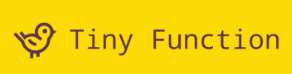
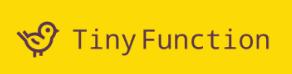
updated changes for 2025-aug

Changed region(s): [[0.0308, 0.2703, 0.9555, 0.8108]]

diff --git a/grammer.html b/grammer.html
@@ -17,17 +17,34 @@
 </script>   
     
     <link rel="shortcut icon" href="favicon.ico" type="image/x-icon" />
-    <!--link href='http://fonts.googleapis.com/css?family=Lato&subset=latin,latin-ext' rel='stylesheet' type='text/css'-->
-    
+    <!--link href="https://unpkg.com/tailwindcss@^1.0/dist/tailwind.min.css" rel="stylesheet"/-->
+    <!--link href="https://unpkg.com/tailwindcss@^2/dist/tailwind.min.css" rel="stylesheet"--> 
+    <script src="https://cdn.tailwindcss.com"></script>
+    <meta name="viewport" content="width=device-width, initial-scale=1.0">
+    <link rel="stylesheet" href="https://use.fontawesome.com/releases/v5.8.1/css/all.css" integrity="sha384-50oBUHEmvpQ+1lW4y57PTFmhCaXp0ML5d60M1M7uH2+nqUivzIebhndOJK28anvf" crossorigin="anonymous">    
+    <!--link href="styles/output.css" type="text/css" rel="stylesheet" /-->
+      
+
     <link rel="preconnect" href="https://fonts.googleapis.com">
     <link rel="preconnect" href="https://fonts.gstatic.com" crossorigin>
-    <link href="https://fonts.googleapis.com/css2?family=Lato:wght@100&display=swap" rel="stylesheet">
-    
+      
+    <link href='http://fonts.googleapis.com/css?family=Lato&subset=latin,latin-ext' rel='stylesheet' type='text/css'>      
+    <link href="https://fonts.googleapis.com/css2?family=Noto+Sans&display=swap" rel="stylesheet">      
+    <link href="https://fonts.googleapis.com/css2?family=Nunito&display=swap" rel="stylesheet">
+    <link href="https://fonts.googleapis.com/css2?family=Nata+Sans:wght@100..900&display=swap" rel="stylesheet">
+    <link href="https://fonts.googleapis.com/css2?family=Delius&display=swap" rel="stylesheet">
+      
+    <link href="https://fonts.googleapis.com/css2?family=Inter&display=swap" rel="stylesheet">
+      
       <style>
         body {
-            /*font-family:'sofia-pro,Roboto,Helvetica,Arial,sans-serif';*/
-          font-family: 'Lato', sans-serif;
         }
+        .main-sec {
+            font-family: 'Inter', sans-serif;
+      }
+        .main-sec2 {
+            font-family: 'Nunito', sans-serif;
+      }
       </style>
       
 <script>
@@ -35,36 +52,35 @@
 </script>
   <meta charset="UTF-8">
   <title>Kishore.pro/grammer</title>
-  <!--link href="https://unpkg.com/tailwindcss@^1.0/dist/tailwind.min.css" rel="stylesheet"/-->
-  <link href="https://unpkg.com/tailwindcss@^2/dist/tailwind.min.css" rel="stylesheet">      
-    <meta name="viewport" content="width=device-width, initial-scale=1.0">
-<link rel="stylesheet" href="https://use.fontawesome.com/releases/v5.8.1/css/all.css" integrity="sha384-50oBUHEmvpQ+1lW4y57PTFmhCaXp0ML5d60M1M7uH2+nqUivzIebhndOJK28anvf" crossorigin="anonymous">    
-  <!--link href="styles/output.css" type="text/css" rel="stylesheet" /-->
 </head>
     
 <body class=" h-screen" >
     
-<div class="flex flex-col md:h-screen justify-center p-4 bgdiv bg-gray-200">
-  <div class="  max-w-sm md:max-w-3xl  bg-white shadow-md m-auto rounded-lg p-12  space-y-4">
-    <img class="h-16 w-16 rounded-full mx-auto" src="https://pbs.twimg.com/profile_images/1313453251509932032/eRvqp-t0_400x400.jpg">
-    <div class="text-center text-black space-y-4 antialiased">
+      
+<div class="flex flex-col md:h-screen justify-center bg-gray-700 overflow-hidden">
+  <div class="max-w-sm md:max-w-3xl bg-black shadow-md m-auto rounded-lg p-12 space-y-4 border border-gray-800">
+
+      
+    <img class="h-16 w-16 rounded-full mx-auto brightness-85  " src="images/profile-twitter2.jpg">
+    <div class="text-center text-black space-y-4 pt-4 antialiased">
       <!--div><h2 class="text-2xl underline">Kishore</h2> </div-->
       <!--div>Software Architect</div-->
         <!--div><h1 class="text-xl ">Software Architect</h1> </div-->
         
-        <div class="prose  text-gray-900 text-lg ">
-            <p class=" lead ">Hi! I'm Kishore, Software Architect with expertise in Web technologies, Cloud(K8's), Desktop and Embedded Systems. 
+        <div class="prose  ">
+            <p class=" lead main-sec  text-white ">Hi! I'm Kishore, Software Architect with expertise in Web technologies, Cloud(K8's), Desktop and Embedded Systems. 
               My skill set includes Java, C#, ReactJS, NodeJS, Python, D, Go, Zig etc. And cloud platforms like GCP, AWS, and Azure. 
               I have over 23 years of experience in software development and 2 years in nanotechnology.
             </p> 
-            <p class=" p-3">
+            <p class=" p-8 main-sec2 text-white">
                 I worked for 
+                <a target="_blank" href="https://prescinto.ai">IBM-Prescinto</a>,
                 <a target="_blank" href="https://tektronix.com">Tektronix</a>, 
                 <a target="_blank" href="https://tomtom.com">TomTom</a>,
-                <a target="_blank" href="https://lnf.umich.edu">Lurie Nano Fab</a> at
+                <a target="_blank" href="https://lnf.umich.edu">Lurie Nano Fab</a>,
                 <a target="_blank" href="https://umich.edu">University of Michigan</a>,
-                <a target="_blank" href="https://graniteriverlabs.com">Granite River Labs</a>, 
-                <a target="_blank" href="https://prescinto.ai/">Prescinto </a> and others.
+                <a target="_blank" href="https://graniteriverlabs.com">Granite River Labs</a> 
+                and others.
             </p> 
         </div>
         
@@ -76,31 +92,48 @@
              </div>
         </div-->
         
-        <div><h2 class="text-md text-gray-500 pb-2">Notable side projects</h2> 
+        <div><h2 class="text-md text-gray-500 pt-2 pb-2">Notable side projects</h2> 
             
           <div class="flex flex-wrap justify-center text-gray-800 my-auto text-lg mx-auto md:mx-0">
-              <!--a class="pl-2" href="https://tinyDatabase.com"><img class="object-fit h-12 object-center bg-yellow-300 " src="tinydatabase.png" alt="TinyDatabase"></a-->
-              <a href="https://tinyfunction.com"><img class="object-fit h-12 object-center bg-yellow-300 " src="images/tinyfunction.png" alt="TinyFunction"></a>   
-
-              <a href="https://helloele.com"><img class="object-fit h-12 object-center bg-yellow-300 " src="images/helloele.png" alt="HelloEle"></a>              
+              <!--a class="pl-2" href="https://tinyDatabase.com"><img class="object-fit h-12 object-center bg-yellow-300 " src="tinydatabase.png" alt="TinyDatabase">
+ rounded-none md:rounded-tl-md sm:rounded-tl-md
+</a-->
               
-              <a class=" " href="https://keyval.org"><img class="object-fit h-12 object-center bg-yellow-300 " src="images/keyval-logo.png" alt="KEYvalue"></a>              
+              <a href="https://keyval.org">
+                  <img class="rounded-t-md md:rounded-tr-none object-fit h-12 object-center brightness-75 hover:brightness-100 " src="images/keyval-logo.png" alt="keyval.org"/>
+              </a>   
+              
+              <a href="https://tinyfunction.com">
+                  <img class="object-fit h-12 object-center brightness-75 hover:brightness-100 " src="images/tinyfunction-bg-white-yellow-bird.png" alt="TinyFunction.com">
+              </a>   
+
+            
+              <a href="https://git-help.com">
+                  <img class="rounded-none md:rounded-tr-md object-fit h-12 object-center brightness-75 hover:brightness-100 " src="images/git-help.png" alt="Git-Help.com">
+              </a>   
+           
 
               
-              <a href="https://watermark.ink"><img class="object-fit h-12 object-center bg-yellow-300 " src="images/watermark-ink.png" alt="Watermark.ink"></a>              
+              <a href="https://watermark.ink">
+                  <img class="rounded-none md:rounded-bl-md object-fit h-12 object-center brightness-75 hover:brightness-100 " src="images/watermark-ink.png" alt="https://watermark.ink">
+              </a>              
 
-              <a href="https://apps.tealpod.com/compressor/index.html"><img class="object-fit h-12 object-center " src="images/tealpod.png" alt="Tealpod"></a>
+              <a href="https://helloele.com">
+                  <img class="object-fit h-12 object-center brightness-75 hover:brightness-100 " src="images/helloele.png" alt="HelloEle.com"></a>  
+
+              <a href="https://apps.tealpod.com/compressor/index.html">
+                  <img class="rounded-b-md md:rounded-bl-none object-fit h-12 object-center brightness-75 hover:brightness-100" src="images/tealpod-white-bg.png" alt="Tealpod.com">
+              </a>
               
-              <a href="https://git-help.com"><img class="object-fit h-12 object-center bg-yellow-300 " src="images/git-help.png" alt="Git-Help"></a>   
                     
             </div>
         </div>
 
         <div class="flex flex-row justify-center gap-8 pt-5 pb-1 text-gray-800 text-2xl mx-auto md:mx-0">
-                <a class="hover:cursor-pointer hover:text-blue-500" href="https://twitter.com/prakis" aria-label="twitter"><i class="fab fa-twitter fa-lg"></i></a>
-                <a class="hover:cursor-pointer hover:text-blue-500" href="https://github.com/prakis" aria-label="github"><i class="fab fa-github fa-lg"></i></a>
-                <!--a class="hover:cursor-pointer hover:text-blue-500" href="https://blog.kishore.pro" aria-label="blog"><i class="fa fa-blog fa-lg"></i></a-->
-                <a class="hover:cursor-pointer hover:text-blue-500" href="https://www.linkedin.com/in/krishna-pagadala/" aria-label="linkedin"><i class="fab fa-linkedin-in fa-lg"></i></a>
+            <a class="hover:cursor-pointer text-gray-600 hover:text-blue-500" href="https://twitter.com/prakis" aria-label="twitter"><i class="fab fa-twitter fa-lg"></i></a>
+            <a class="hover:cursor-pointer text-gray-600 hover:text-blue-500" href="https://github.com/prakis" aria-label="github"><i class="fab fa-github fa-lg"></i></a>
+            <!--a class="hover:cursor-pointer text-gray-600 hover:text-blue-500" href="https://blog.kishore.pro" aria-label="blog"><i class="fa fa-blog fa-lg"></i></a-->
+            <a class="hover:cursor-pointer text-gray-600 hover:text-blue-500" href="https://www.linkedin.com/in/krishna-pagadala/" aria-label="linkedin"><i class="fab fa-linkedin-in fa-lg"></i></a>
           </div>
         
     </div>
